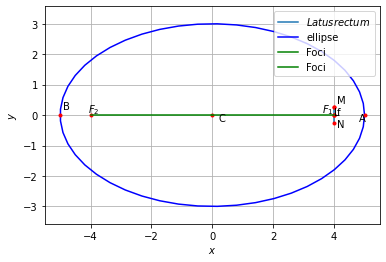
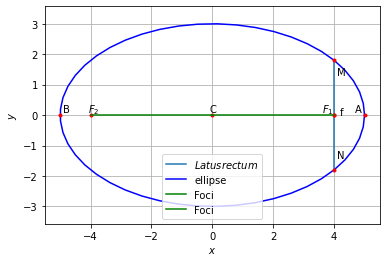
Add files via upload

diff --git a/ASSIGNMENT6/assignment6.py b/ASSIGNMENT6/assignment6.py
@@ -211,8 +211,8 @@ B2 = -B1
 A = np.array([5,0])
 B = np.array([-5,0])
 f = np.array([4,0])
-M = np.array([4,0.25])
-N = np.array([4,-0.25])
+M = np.array([4,1.8])
+N = np.array([4,-1.8])
 
 #Latus rectum
 x_MN = line_gen(M,N)
@@ -228,35 +228,32 @@ plt.plot(x[0,:],x[1,:],'b' ,label='ellipse')
 
 #Labelling points
 plt.plot(0,0, 'o',color='r',markersize=3)
-plt.text(0.2 ,-0.2,'C')
+plt.text(-0.1 ,0.1,'C')
 plt.plot(5,0, 'o',color='r',markersize=3)
-plt.text(4.8 ,-0.2,'A')
+plt.text(4.7 ,0.1,'A')
 plt.plot(-5,0, 'o',color='r',markersize=3)
-plt.text(-4.9 ,0.2,'B')
-plt.plot(4,0.25, 'o',color='r',markersize=3)
-plt.plot(4,0.25, 'o',color='r',markersize=3)
-plt.text(4.1 ,0.4,'M')
-plt.plot(4,-0.25, 'o',color='r',markersize=3)
-plt.text(4.1 ,-0.4,'N')
+plt.text(-4.9 ,0.1,'B')
+plt.plot(4,1.8, 'o',color='r',markersize=3)
+plt.text(4.1 ,1.3,'M')
+plt.plot(4,-1.8, 'o',color='r',markersize=3)
+plt.text(4.1 ,-1.4,'N')
 plt.plot(4,0, 'o',color='r',markersize=3)
-plt.text(4.1 ,0,'f')
+plt.text(4.2 ,0,'f')
 plt.plot(4,0,'o',color='r',markersize=3)
 plt.text(3.6,0.1,'$F_1$')
 plt.plot(-4,0,'o',color='r',markersize=3)
 plt.text(-4.1,0.1,'$F_2$')
-plt.plot(4,0,'o',color='r',markersize=3)
-plt.text(4,0,'L')
 
 #Plotting line OF1
 O=np.array([0,0])
 F1=np.array([c,0])
-OF1 = line_gen(O,F_1)
+OF1 = line_gen(O,F1)
 plt.plot(OF1[0,:],OF1[1,:],'g',label='Foci')
 
 #Plotting line OF2
 O=np.array([0,0])
 F2=np.array([-c,0])
-OF2 = line_gen(O,F_2)
+OF2 = line_gen(O,F2)
 plt.plot(OF2[0,:],OF2[1,:],'g',label='Foci')
  
 
